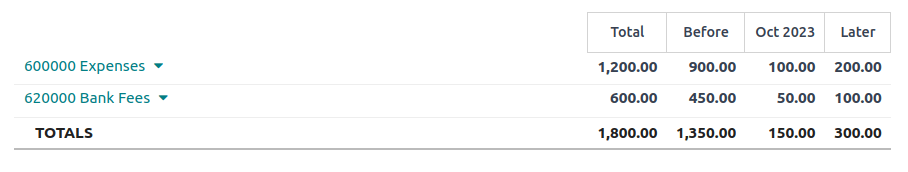
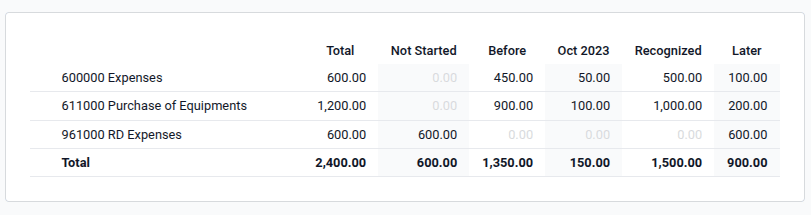
[IMP] accounting: Deferrals Update With New Changes
Part of deferrals docs is outdated.

Update the docs to include newly added features.

task-5418388

X-original-commit: 2e908abdfed13a03d48910a026acfb8a76168f1e

diff --git a/content/applications/finance/accounting/customer_invoices/deferred_revenues.rst b/content/applications/finance/accounting/customer_invoices/deferred_revenues.rst
@@ -41,20 +41,27 @@ Generate Entries
   :ref:`generate them manually <customer_invoices/deferred/generate_manually>` by selecting the
   :guilabel:`Manually & Grouped` option instead.
 Based on
+  There are three ways to calculate the deferred revenue recognition:
+
+   - :guilabel:`Days`: The total amount is divided equally by the total number of days in the
+     period, inclusive of the start and end dates.
+   - :guilabel:`Months`: Each full month represents an equal proportion of the total amount,
+     regardless of the actual number of days in that month (standardized basis).
+   - :guilabel:`Full Months`: Any month started is treated as a complete month. However, the final
+     month is only considered full if the period extends to the very last day of that month.
+
   Suppose an invoice of $1200 must be deferred over 12 months.
 
+  - The :guilabel:`Days` option accounts for different amounts depending on the number of days in
+    each month (e.g., ~$102 for January and ~$92 for February).
   - The :guilabel:`Months` option accounts for $100 each month prorated to the number of days in
     that month (e.g., $50 for the first month if the :guilabel:`Start Date` is set to the 15th of
     the month).
-
   - The :guilabel:`Full Months` option considers each month started to be full (e.g., $100 for the
     first month even if the :guilabel:`Start Date` is set to the 15th of the month); this means that
     with the :guilabel:`Full Months` option, a full $100 is recognized in the first partial month,
     eliminating the need for a 13th month to recognize any remainder as would be the case when using
     the :guilabel:`Months` option.
-
-  - The :guilabel:`Days` option accounts for different amounts depending on the number of days in
-    each month (e.g., ~$102 for January and ~$92 for February).
 
 .. _customer_invoices/deferred/generate_on_validation:
 
@@ -62,10 +69,10 @@ Generate deferral entries on validation
 =======================================
 
 .. tip::
-   Make sure the :guilabel:`Start Date` and :guilabel:`End Date` fields are visible in the
-   :guilabel:`Invoice Lines` tab. In most cases, the :guilabel:`Start Date` should be in the same
-   month as the :guilabel:`Invoice Date`. Deferred revenue entries are posted from the invoice
-   date and are displayed in the report accordingly.
+   Make sure the :guilabel:`Deferred Date` field is visible in the :guilabel:`Invoice Lines`
+   tab. In most cases, the start of the deferred period should be in the same month as the
+   :guilabel:`Invoice Date`. Deferred revenue entries are posted from the invoice date and are
+   displayed in the report accordingly.
 
 For each line of the invoice that should be deferred, specify the start and end dates of the
 deferral period.
@@ -97,8 +104,8 @@ Items`.
    :alt: Deferred revenue report
 
 .. note::
-    Only invoices whose accounting date is before the end of the period of the report
-    are taken into account.
+   Only invoices whose accounting date is before the end of the period of the report are taken
+   into account.
 
 .. _customer_invoices/deferred/generate_manually:
 
@@ -120,10 +127,12 @@ click the :guilabel:`Generate Entries` button. This generates two deferral entri
   next month) to cancel the previous entry.
 
 .. example::
-   There are two invoices:
+   There are three invoices deferred based on :guilabel:`Months`:
 
    - Invoice A: $1200 to be deferred from 01/01/2023 to 12/31/2023
    - Invoice B: $600 to be deferred from 01/01/2023 to 12/31/2023
+   - Invoice C: $600 to be deferred in a future period (it will appear on the :guilabel:`Not
+     Started` column)
 
    In January
       At the end of January, after clicking the :guilabel:`Generate Entries` button, there are the
@@ -131,16 +140,16 @@ click the :guilabel:`Generate Entries` button. This generates two deferral entri
 
       - Entry 1 dated on the 31st January:
 
-        - Line 1: Expense account -1200 -600 = **-1800** (cancelling the total of both invoices)
-        - Line 2: Expense account 100 + 50 = **150** (recognizing 1/12 of invoice A and invoice B)
-        - Line 3: Deferred account 1800 - 150 = **1650** (amount that has yet to be deferred later
+        - Line 1: Income account -1200 -600 -600 = **-2400** (cancelling the total of all invoices)
+        - Line 2: Income account 100 + 50 = **150** (recognizing 1/12 of invoice A and invoice B)
+        - Line 3: Deferred account 2400 - 150 = **2250** (amount that has yet to be deferred later
           on)
 
       - Entry 2 dated on the 1st February, the reversal of the previous entry:
 
-        - Line 1: Expense account **1800**
-        - Line 2: Deferred account **-150**
-        - Line 3: Expense account **-1650**
+        - Line 1: Income account **2400**
+        - Line 3: Income account **-150**
+        - Line 2: Deferred account **-2250**
 
    In February
       At the end of February, after clicking the :guilabel:`Generate Entries` button, there are the
@@ -148,40 +157,26 @@ click the :guilabel:`Generate Entries` button. This generates two deferral entri
 
       - Entry 1 dated on the 28th February:
 
-        - Line 1: Expense account -1200 -600 = **-1800** (cancelling the total of both invoices)
-        - Line 2: Expense account 200 + 100 = **300** (recognizing 2/12 of invoice A and invoice B)
-        - Line 3: Deferred account 1800 - 300 = **1500** (amount that has yet to be deferred later
+        - Line 1: Income account -1200 -600 -600 = **-2400** (cancelling the total of all invoices)
+        - Line 2: Income account 200 + 100 = **300** (recognizing 2/12 of invoice A and invoice B)
+        - Line 3: Deferred account 2400 - 300 = **2100** (amount that has yet to be deferred later
           on)
 
       - Entry 2 dated on the 1st March, the reversal of the previous entry.
 
-   From March to October
-      The same computation is done for each month until October.
-
-   In November
-      At the end of November, after clicking the :guilabel:`Generate Entries` button, there are the
-      following entries:
-
-      - Entry 1 dated on the 30th November:
-
-        - Line 1: Expense account -1200 -600 = **-1800** (cancelling the total of both invoices)
-        - Line 2: Expense account 1100 + 550 = **1650** (recognizing 11/12 of invoice A and invoice
-          B)
-        - Line 3: Deferred account 1800 - 1650 = **150** (amount that has yet to be deferred later
-          on)
-
-      - Entry 2 dated on the 1st December, the reversal of the previous entry.
+   From March to November
+      The same computation is done for each month until November.
 
    In December
-      There is no need to generate entries in December. Indeed, if we do the computation for
-      December, we have an amount of 0 to be deferred.
+      There is no need to generate entries in December.
 
    In total
       If we aggregate everything, we would have:
 
-      - invoice A and invoice B
-      - two entries (one for the deferral and one for the reversal) for each month from January to
+      - Invoice A and invoice B
+      - Two entries (one for the deferral and one for the reversal) for each month from January to
         November
+      - Invoice C will be deferred later
 
       Therefore, at the end of December, invoices A and B are fully recognized as income
       only once in spite of all the created entries thanks to the reversal mechanism.

diff --git a/content/applications/finance/accounting/vendor_bills/deferred_expenses.rst b/content/applications/finance/accounting/vendor_bills/deferred_expenses.rst
@@ -41,20 +41,27 @@ Generate Entries
   :ref:`generate them manually <vendor_bills/deferred/generate_manually>` by selecting the
   :guilabel:`Manually & Grouped` option instead.
 Based on
+  There are three ways to calculate the deferred expenses recognition:
+
+   - :guilabel:`Days`: The total amount is divided equally by the total number of days in the
+     period, inclusive of the start and end dates.
+   - :guilabel:`Months`: Each full month represents an equal proportion of the total amount,
+     regardless of the actual number of days in that month (standardized basis).
+   - :guilabel:`Full Months`: Any month started is treated as a complete month. However, the final
+     month is only considered full if the period extends to the very last day of that month.
+
   Suppose a bill of $1200 must be deferred over 12 months.
 
+  - The :guilabel:`Days` option accounts for different amounts depending on the number of days in
+    each month (e.g., ~$102 for January and ~$92 for February).
   - The :guilabel:`Months` option accounts for $100 each month prorated to the number of days in
     that month (e.g., $50 for the first month if the :guilabel:`Start Date` is set to the 15th of
     the month).
-
   - The :guilabel:`Full Months` option considers each month started to be full (e.g., $100 for the
     first month even if the :guilabel:`Start Date` is set to the 15th of the month); this means that
     with the :guilabel:`Full Months` option, a full $100 is recognized in the first partial month,
     eliminating the need for a 13th month to recognize any remainder as would be the case when using
     the :guilabel:`Months` option.
-
-  - The :guilabel:`Days` option accounts for different amounts depending on the number of days in
-    each month (e.g., ~$102 for January and ~$92 for February).
 
 .. _vendor_bills/deferred/generate_on_validation:
 
@@ -62,10 +69,10 @@ Generate deferral entries on validation
 =======================================
 
 .. tip::
-   Make sure the :guilabel:`Start Date` and :guilabel:`End Date` fields are visible in the
-   :guilabel:`Invoice Lines` tab. In most cases, the :guilabel:`Start Date` should be in the same
-   month as the :guilabel:`Bill Date`. Deferred expense entries are posted from the bill date and
-   are displayed in the report accordingly.
+   Make sure the :guilabel:`Deferred Date` field is visible in the :guilabel:`Invoice Lines`
+   tab. In most cases, the start of the deferred period should be in the same month as the
+   :guilabel:`Accounting Date`. Deferred expense entries are posted from the accounting
+   date and are displayed in the report accordingly.
 
 For each line of the bill that should be deferred, specify the start and end dates of the deferral
 period.
@@ -97,8 +104,8 @@ Items`.
    :alt: Deferred expense report
 
 .. note::
-    Only bills whose accounting date is before the end of the period of the report
-    are taken into account.
+   Only bills whose accounting date is before the end of the period of the report
+   are taken into account.
 
 .. _vendor_bills/deferred/generate_manually:
 
@@ -120,68 +127,56 @@ At the end of each month, go to the Deferred Expenses report and click the
   next month) to cancel the previous entry.
 
 .. example::
-
-   There are two bills:
+   There are three bills deferred based on :guilabel:`Months`:
 
    - Bill A: $1200 to be deferred from 01/01/2023 to 12/31/2023
    - Bill B: $600 to be deferred from 01/01/2023 to 12/31/2023
+   - Bill C: $600 to be deferred in a future period (it will appear on the :guilabel:`Not Started`
+     column)
 
    In January
-      At the end of January, after clicking the :guilabel:`Generate Entries` button,
-      there are the following entries:
+      At the end of January, after clicking the :guilabel:`Generate Entries` button, there are the
+      following entries:
 
       - Entry 1 dated on the 31st January:
 
-        - Line 1: Expense account -1200 -600 = **-1800** (cancelling the total of both bills)
+        - Line 1: Expense account -1200 -600 -600 = **-2400** (cancelling the total of all bills)
         - Line 2: Expense account 100 + 50 = **150** (recognizing 1/12 of bill A and bill B)
-        - Line 3: Deferred account 1800 - 150 = **1650** (amount that has yet to be deferred later
+        - Line 3: Deferred account 2400 - 150 = **2250** (amount that has yet to be deferred later
           on)
 
       - Entry 2 dated on the 1st February, the reversal of the previous entry:
 
-        - Line 1: Expense account **1800**
-        - Line 2: Deferred account **-150**
-        - Line 3: Expense account **-1650**
+        - Line 1: Expense account **2400**
+        - Line 3: Expense account **-150**
+        - Line 2: Deferred account **-2250**
 
    In February
-      At the end of February, after clicking the :guilabel:`Generate Entries` button,
-      there are the following entries:
+      At the end of February, after clicking the :guilabel:`Generate Entries` button, there are the
+      following entries:
 
       - Entry 1 dated on the 28th February:
 
-        - Line 1: Expense account -1200 -600 = **-1800** (cancelling the total of both bills)
+        - Line 1: Expense account -1200 -600 -600 = **-2400** (cancelling the total of all bills)
         - Line 2: Expense account 200 + 100 = **300** (recognizing 2/12 of bill A and bill B)
-        - Line 3: Deferred account 1800 - 300 = **1500** (amount that has yet to be deferred later
+        - Line 3: Deferred account 2400 - 300 = **2100** (amount that has yet to be deferred later
           on)
 
       - Entry 2 dated on the 1st March, the reversal of the previous entry.
 
-   From March to October
-      The same computation is done for each month until October.
-
-   In November
-      At the end of November, after clicking the :guilabel:`Generate Entries` button,
-      there are the following entries:
-
-      - Entry 1 dated on the 30th November:
-
-        - Line 1: Expense account -1200 -600 = **-1800** (cancelling the total of both bills)
-        - Line 2: Expense account 1100 + 550 = **1650** (recognizing 11/12 of bill A and bill B)
-        - Line 3: Deferred account 1800 - 1650 = **150** (amount that has yet to be deferred later
-          on)
-
-      - Entry 2 dated on the 1st December, the reversal of the previous entry.
+   From March to November
+      The same computation is done for each month until November.
 
    In December
-      There is no need to generate entries in December. Indeed, if we do the computation for
-      December, we will have an amount of 0 to be deferred.
+      There is no need to generate entries in December.
 
    In total
       If we aggregate everything, we would have:
 
-      - bill A and bill B
-      - two entries (one for the deferral and one for the reversal) for each month from January to
+      - Bill A and Bill B
+      - Two entries (one for the deferral and one for the reversal) for each month from January to
         November
+      - Bill C will be deferred later
 
       Therefore, at the end of December, bills A and B are fully recognized as expense only once in
       spite of all the created entries thanks to the reversal mechanism.
